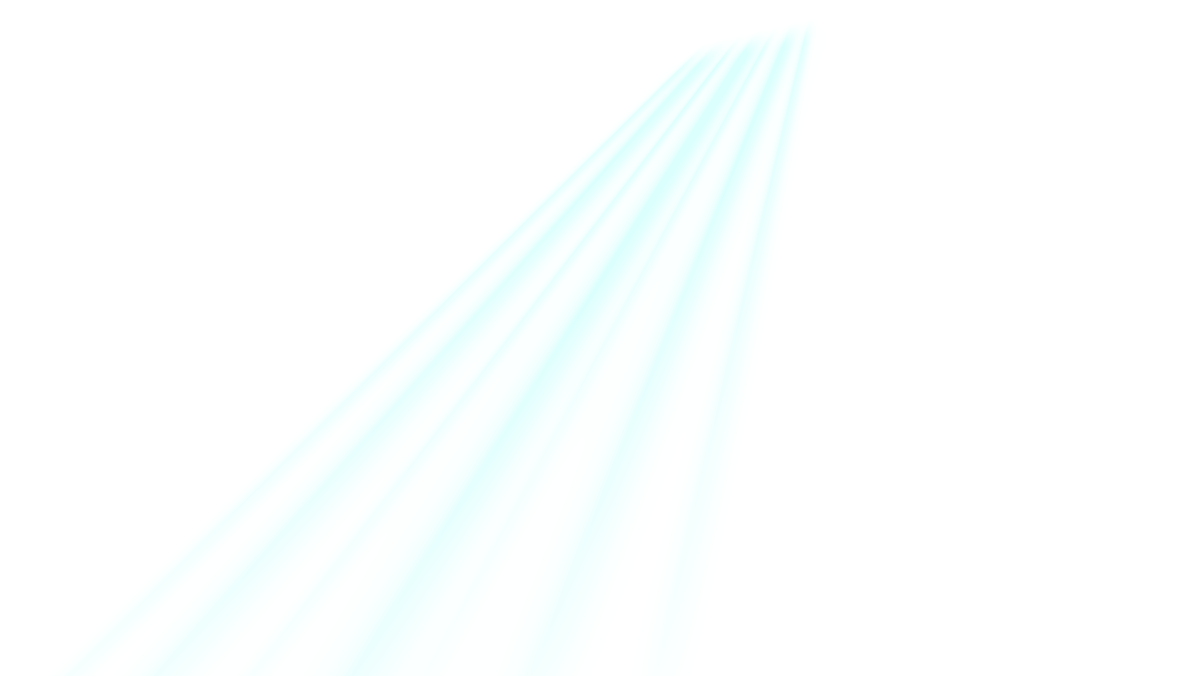
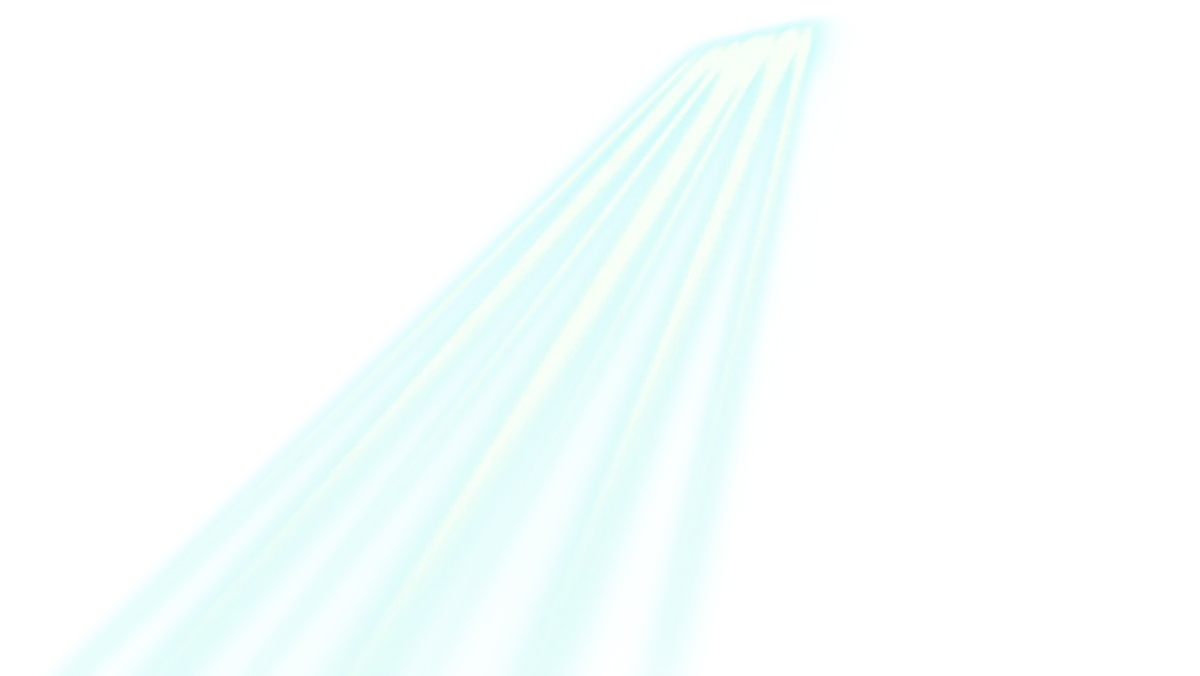
Détacher les rayons de la fenêtre des caustiques et rafraîchir leur image

Changed region(s): [[0.37, 0.0311, 0.7092, 0.497]]

diff --git a/room-v2-ambient.js b/room-v2-ambient.js
@@ -663,11 +663,19 @@
     if (caustics) surfaces.push(caustics);
     const beam = new Image();
     beam.alt = '';
-    beam.src = folder + 'mer/faisceau-fenetre.webp';
+    beam.src = folder + 'mer/faisceau-fenetre.webp?v=rayons-vifs-3';
     beam.className = 'sea-surface-light';
     beam.dataset.roomV2Layer = '';
     beam.style.zIndex = '101';
+    beam.style.animation = 'none';
+    beam.style.opacity = '1';
+    beam.style.transformOrigin = '64% 5%';
     scene.append(beam);
+    beam.animate([{opacity: 0}, {opacity: 1}], {duration: 2200, easing: 'ease-out'});
+    if (!quiet.matches) {
+      beam.animate([{transform: 'skewX(-1.3deg)'}, {transform: 'skewX(1.3deg)'}],
+        {duration: 3800, direction: 'alternate', easing: 'ease-in-out', iterations: Infinity});
+    }
     surfaces.push(beam);
     scene.classList.add('sea-lit');
     return {

diff --git a/index.html b/index.html
@@ -1062,7 +1062,7 @@ html body #work-desktop .desktop-folder .folder-tile.work-browser-tile{
                 style.href = 'room-v2-ambient.css?v=reflets-objets-1';
                 style.onload = () => {
                   const script = document.createElement('script');
-                  script.src = 'room-v2-ambient.js?v=faisceau-fenetre-1';
+                  script.src = 'room-v2-ambient.js?v=rayons-vifs-3';
                   document.head.append(script);
                 };
                 document.head.append(style);
